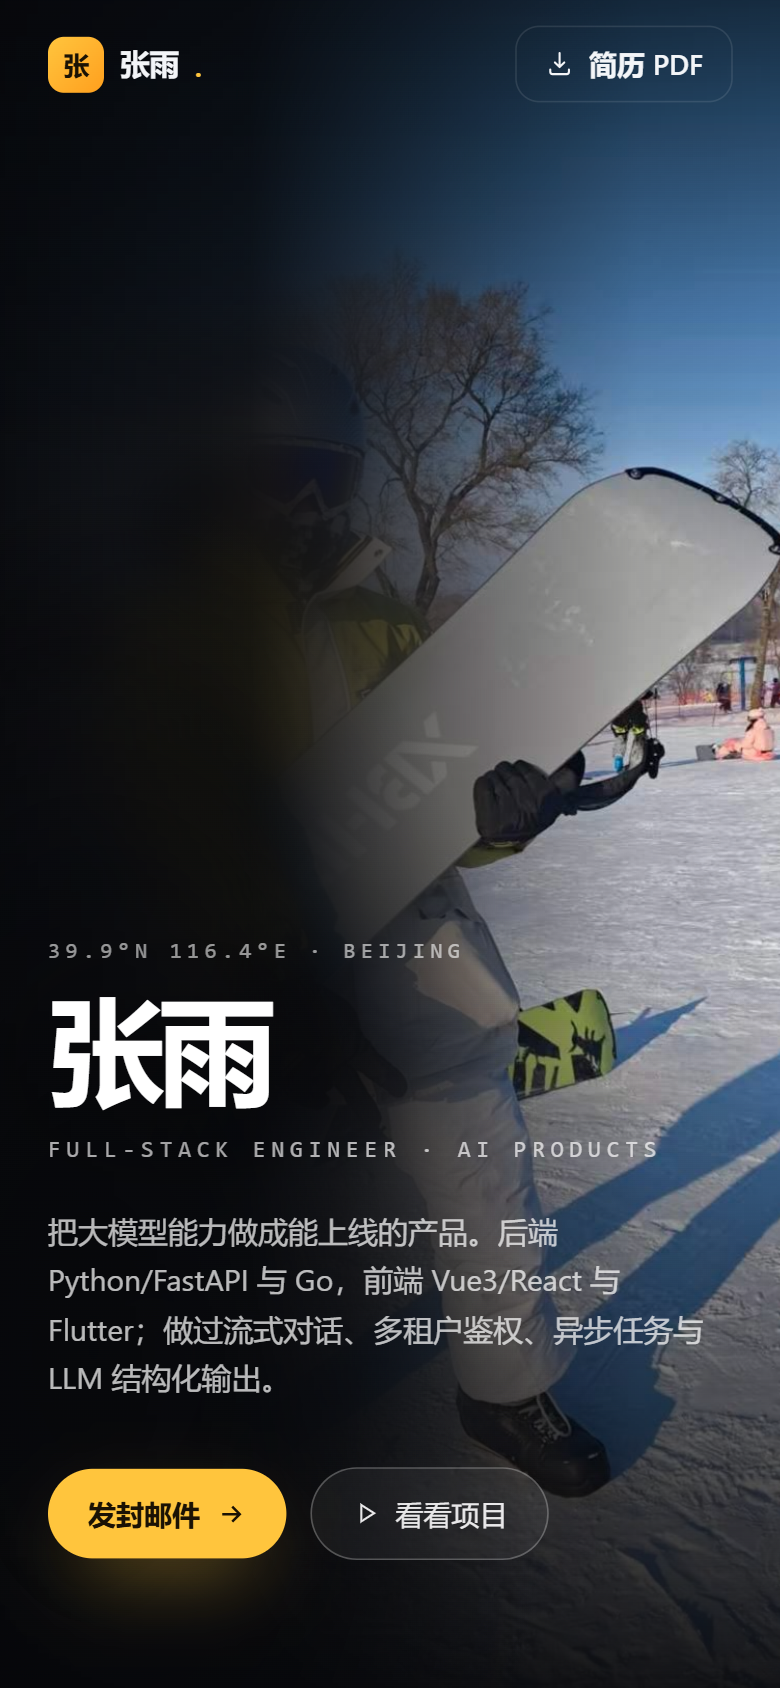
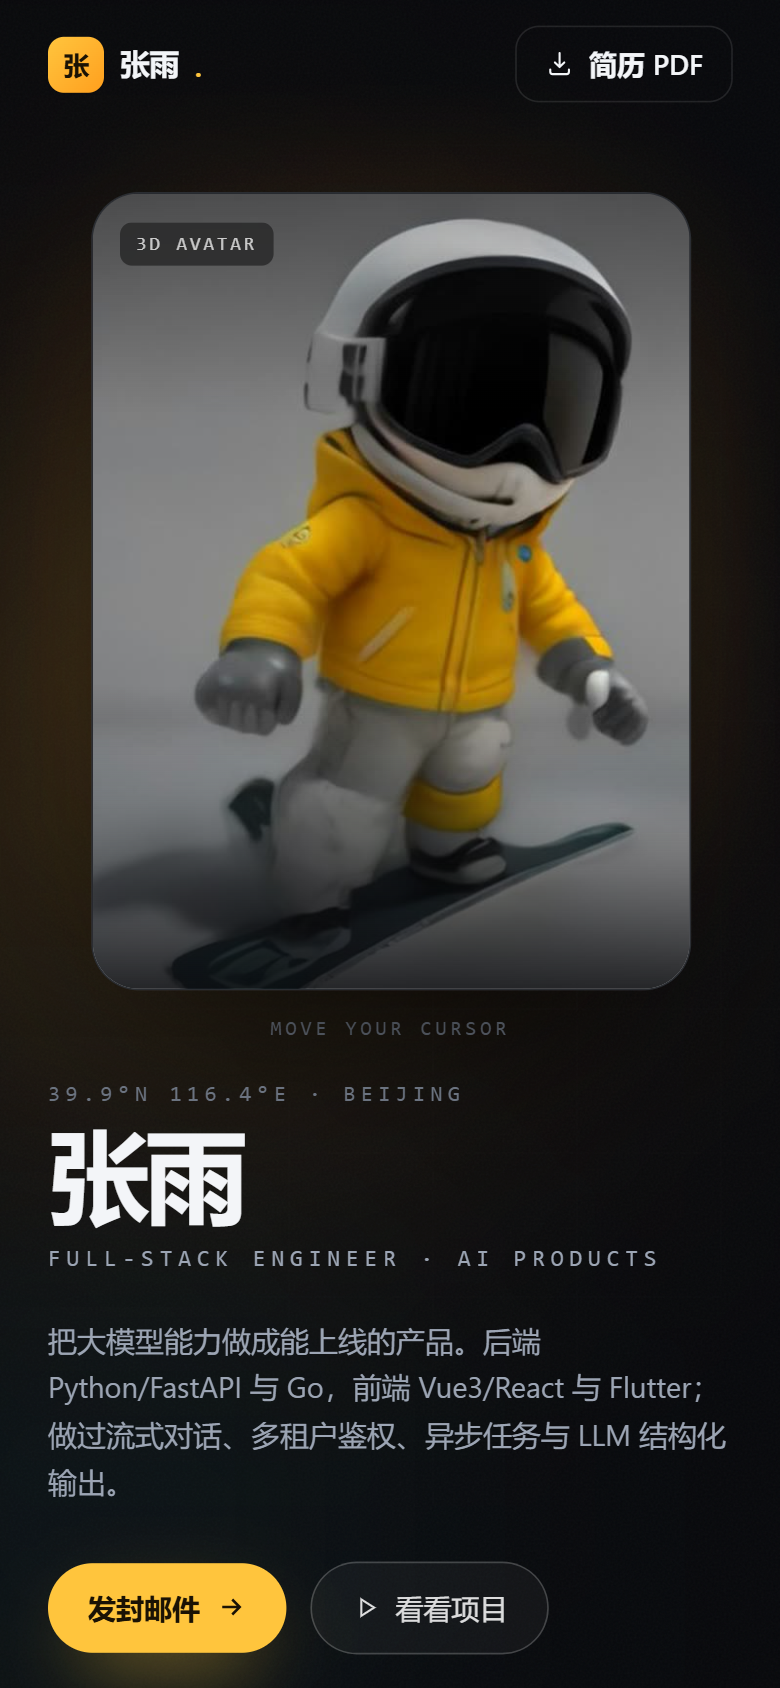
feat: 首屏换成 3D 卡通分身卡（生成形象 + 鼠标 3D 倾斜）

diff --git a/tools/gen-avatar.py b/tools/gen-avatar.py
@@ -1,0 +1,31 @@
+import urllib.request, urllib.parse, os, time, random
+
+PROMPT = (
+    "3D Pixar style chibi snowboarder, full body standing straight facing camera, "
+    "grey ski helmet with large black goggles, bright yellow ski jacket, white snow pants, black boots, "
+    "holding a light grey snowboard under one arm, cute big-head proportions, "
+    "soft studio lighting, plain light grey seamless background, full body with margin, "
+    "high detail, 3d render, no text, no logo"
+)
+
+OUT = r"G:\DSH\workspaces\personal\output\resume-astro\gen"
+os.makedirs(OUT, exist_ok=True)
+
+seeds = [101, 202, 303, 404]
+for seed in seeds:
+    path = os.path.join(OUT, f"box-{seed}.jpg")
+    if os.path.exists(path) and os.path.getsize(path) > 20000:
+        print("skip", seed); continue
+    params = {"width": 768, "height": 1024, "nologo": "true", "seed": str(seed)}
+    url = "https://image.pollinations.ai/prompt/" + urllib.parse.quote(PROMPT) + "?" + urllib.parse.urlencode(params)
+    for attempt in range(3):
+        try:
+            req = urllib.request.Request(url, headers={"User-Agent": "Mozilla/5.0"})
+            with urllib.request.urlopen(req, timeout=200) as r, open(path, "wb") as f:
+                f.write(r.read())
+            print("ok", seed, os.path.getsize(path))
+            break
+        except Exception as e:
+            print("retry", seed, attempt, e)
+            time.sleep(20)
+    time.sleep(18)

diff --git a/tools/gen-avatar3.py b/tools/gen-avatar3.py
@@ -1,0 +1,18 @@
+import urllib.request, urllib.parse, os, time
+PROMPT = ("3D Pixar style chibi character standing, holding a snowboard upright beside him, board resting on the ground, "
+          "no snow, no spray, grey ski helmet with big goggles, bright yellow puffer jacket, white ski pants, black boots, "
+          "cute big-head proportions, plain flat light grey studio background, full body with margin, 3d render, no text")
+OUT = r"G:\DSH\workspaces\personal\output\resume-astro\gen"
+for seed in [707, 808]:
+    path = os.path.join(OUT, f"stand-{seed}.jpg")
+    url = "https://image.pollinations.ai/prompt/" + urllib.parse.quote(PROMPT) + "?" + urllib.parse.urlencode(
+        {"width": 768, "height": 1024, "nologo": "true", "seed": str(seed)})
+    for a in range(3):
+        try:
+            req = urllib.request.Request(url, headers={"User-Agent": "Mozilla/5.0"})
+            with urllib.request.urlopen(req, timeout=200) as r, open(path, "wb") as f:
+                f.write(r.read())
+            print("ok", seed, os.path.getsize(path)); break
+        except Exception as e:
+            print("retry", seed, e); time.sleep(25)
+    time.sleep(20)

diff --git a/README.md b/README.md
@@ -9,12 +9,19 @@
 
 ## 设计
 
-- 首屏：**全屏照片铺满 100svh**，左侧渐变压暗 + 局部柔焦保证文字可读；超大姓名压字、坐标标签、贴纸式「2026 · OPEN TO WORK」、右下「SCROLL TO EXPLORE」引导
-- 滚动：照片视差放大并淡出，内容区接在后面
-- 主色：取自照片里的雪服黄 `#FFC53D`，辅色天空青 `#4FD1E0`
-- 版式：深色底 + 1px 描边卡片 + 细分隔线，中文用系统黑体、数字和标签用等宽字体
-- 动效：首屏文字淡入、区块滚动淡入、顶栏滚动变实、导航高亮、项目卡光标跟随光斑、技术栈跑马灯
-- 响应式：手机端照片重新定位（把人和雪板放进画面），文字压在下方，按钮胶囊化
+- **首屏是 3D 卡通分身**：Q 版雪服小人（黄色雪服 + 头盔雪镜 + 单板），卡片承载、背后暖光，鼠标移动时整张卡做 3D 倾斜（`perspective + rotateX/rotateY`）
+- 文案在左侧：坐标小字、超大姓名、等宽英文副标题、胶囊按钮、三项数据
+- 主色取自雪服黄 `#FFC53D`，辅色天空青 `#4FD1E0`；深色底 + 1px 描边 + 细分隔线
+- 滚动：区块淡入、顶栏变实、导航高亮、项目卡光斑、技术栈跑马灯
+- 响应式：桌面左右分栏，手机「头像卡 → 姓名 → 简介 → 按钮」竖排
+
+### 3D 形象怎么来的
+
+1. `tools/gen-avatar.py` 用文生图生成 Q 版雪服小人（轮询重试，免费接口有限流）
+2. 选片后裁掉水印 → `src/assets/avatar-render.jpg`（原图）+ `public/avatar-card.jpg`（640px 网页版）
+3. 想换形象：改提示词重新生成，替换这两张图即可，无需改代码
+
+> 说明：真正的可转动 3D 模型需要建模资产，这里用「渲染图 + CSS 3D 倾斜」达到同样的交互观感，体积为零成本。
 
 ## 页面
 
